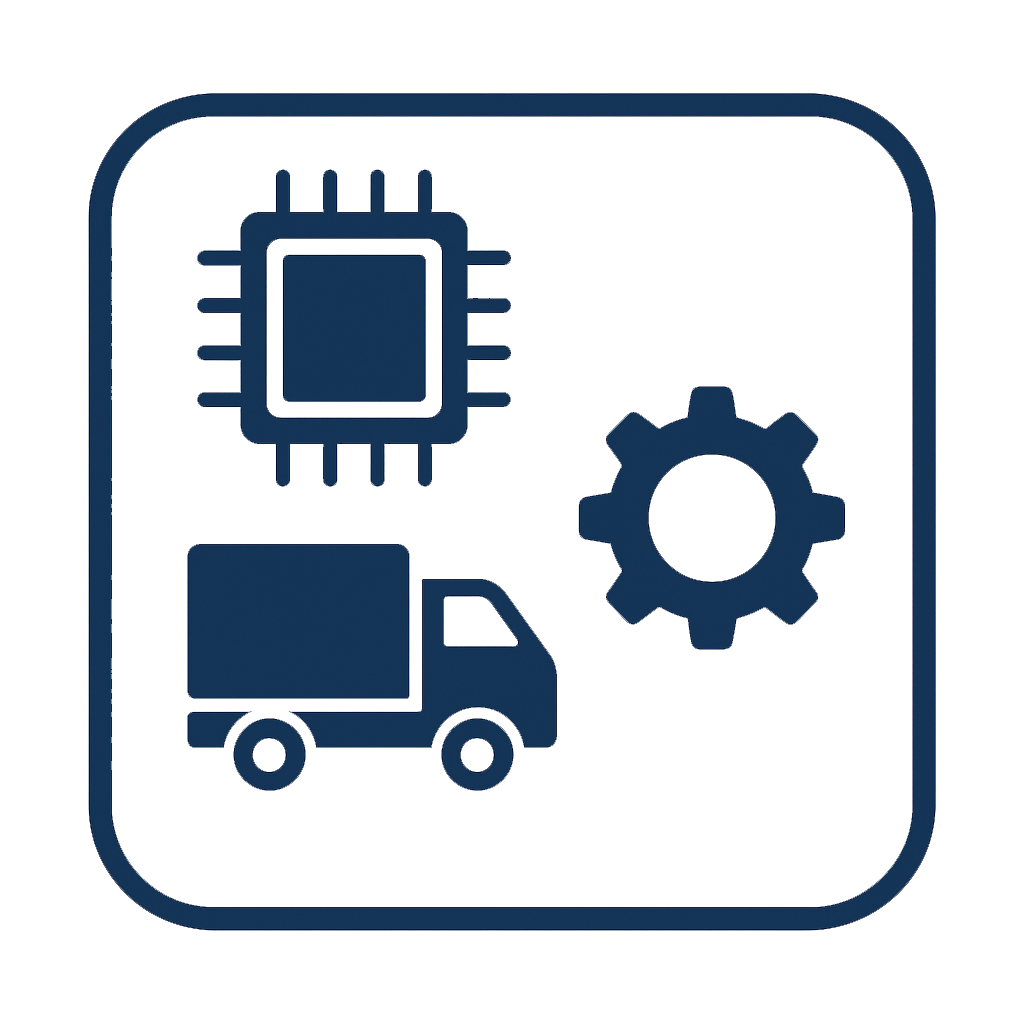
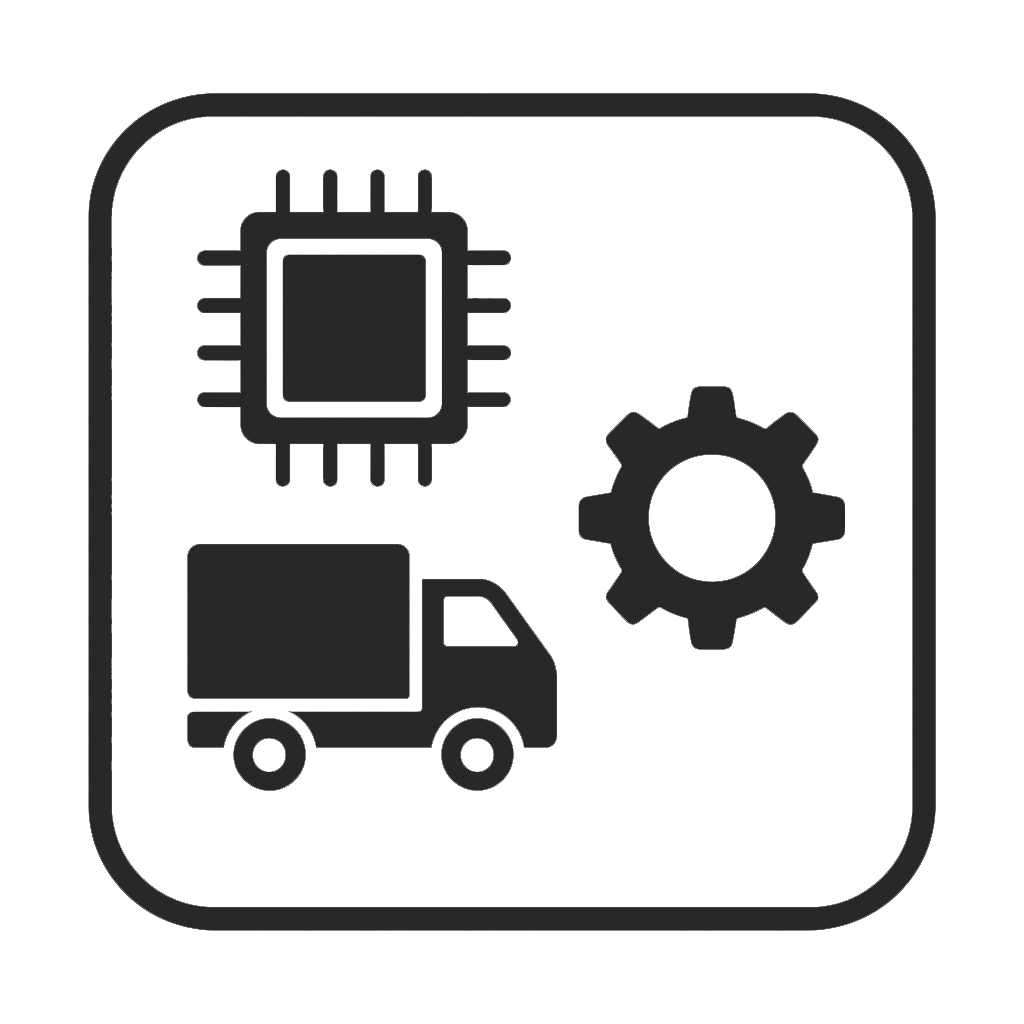
trust-card 아이콘 이미지 색상 업데이트
icon-c-1/2/3.png 교체된 이미지 반영, HTML 경로 원복

diff --git a/consulting.html b/consulting.html
@@ -224,17 +224,17 @@
             </div>
             <div class="trust-cards">
                 <div class="trust-card">
-                    <img src="images/icon-expert.png" alt="전문성">
+                    <img src="images/icon-c-1.png" alt="전문성">
                     <h3>산업별 전문성</h3>
                     <p>반도체, 물류, 제조 등 <br> 각 산업군별 자동화 경험 보유</p>
                 </div>
                 <div class="trust-card">
-                    <img src="images/icon-global.png" alt="데이터 기반">
+                    <img src="images/icon-c-2.png" alt="데이터 기반">
                     <h3>데이터 기반 진단</h3>
                     <p>설비 데이터 분석을 통한 <br> 과학적 개선 제안</p>
                 </div>
                 <div class="trust-card">
-                    <img src="images/icon-support.png" alt="지원">
+                    <img src="images/icon-c-3.png" alt="지원">
                     <h3>컨설팅 이후 사후관리</h3>
                     <p>시스템 안정화부터 피드백까지 <br> 함께합니다.</p>
                 </div>
